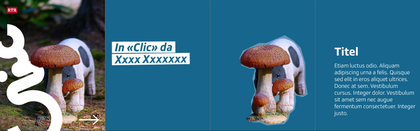
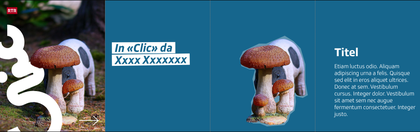
Clic: Pfeil Seite 4 und Farbleiste entfernt
Claude-Session: https://claude.ai/code/session_01YXMkNHnKMJdtTbej2tfRkN

diff --git a/social/clic.html b/social/clic.html
@@ -81,8 +81,7 @@ button:hover,.btn:hover{border-color:var(--accent)}
 
     <div>
       <div class="tools">
-        <label class="row" style="margin:0">Colur Clic <input type="color" id="gcol" value="#16668d"></label>
-        <button id="gBlue" title="Blau da Clic">Blau</button><button id="gGreen" title="Uffants">Uffants</button>
+        <span hidden><input type="color" id="gcol" value="#16668d"><button id="gBlue"></button><button id="gGreen"></button></span>
         <label class="row" style="margin:0 0 0 auto">Zoom <input type="range" id="vz" min="30" max="150" value="100"></label>
       </div>
       <div class="stagewrap"><div id="box"></div></div>
@@ -125,7 +124,7 @@ $('fFile').onchange=async e=>{const fs=[...e.target.files];e.target.value='';for
 /* ---------- Zustand ---------- */
 const KEY='clic.v1';
 let S={col:'#16668d',o:{}},cur=SPREADS[0],svg=null,selId=null,imgs={};   // imgs[spread+oid] = {url,w,h}
-try{const j=JSON.parse(localStorage.getItem(KEY)||'null');if(j&&j.o)S=Object.assign(S,j)}catch(e){}
+try{const j=JSON.parse(localStorage.getItem(KEY)||'null');if(j&&j.o){S=Object.assign(S,j);S.col='#16668d';for(const k in S.o)if(k.endsWith('/pf2'))delete S.o[k]}}catch(e){}
 let sv=0;const save=()=>{clearTimeout(sv);sv=setTimeout(()=>{try{localStorage.setItem(KEY,JSON.stringify(S))}catch(e){}},300)};
 const st=id=>{const k=cur.id+'/'+id;return S.o[k]||(S.o[k]={})};
 const mixHex=(h,t,a)=>{const p=x=>parseInt(h.slice(x,x+2),16);return '#'+[1,3,5].map(i=>Math.round(p(i)+(t-p(i))*a).toString(16).padStart(2,'0')).join('')};
